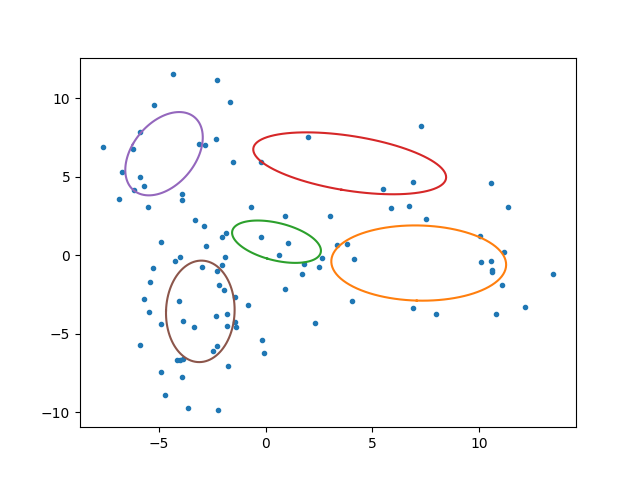
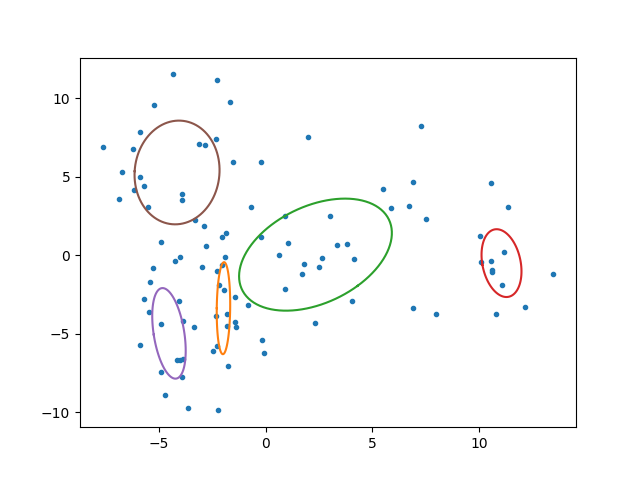
Refactoring

diff --git a/ObjectRecognition/Multi-Shot/em_algorithm_for_our_dataset.py b/ObjectRecognition/Multi-Shot/em_algorithm_for_our_dataset.py
@@ -33,7 +33,7 @@ for _ in range(K):
   Sigma.append(np.eye(D))
 
 ## Loop until you're happy
-max_iter = 3;
+max_iter = 100;
 log_likelihood = np.zeros(max_iter)
 respons = np.zeros((K, N)) # KxN
 for iteration in range(max_iter):
